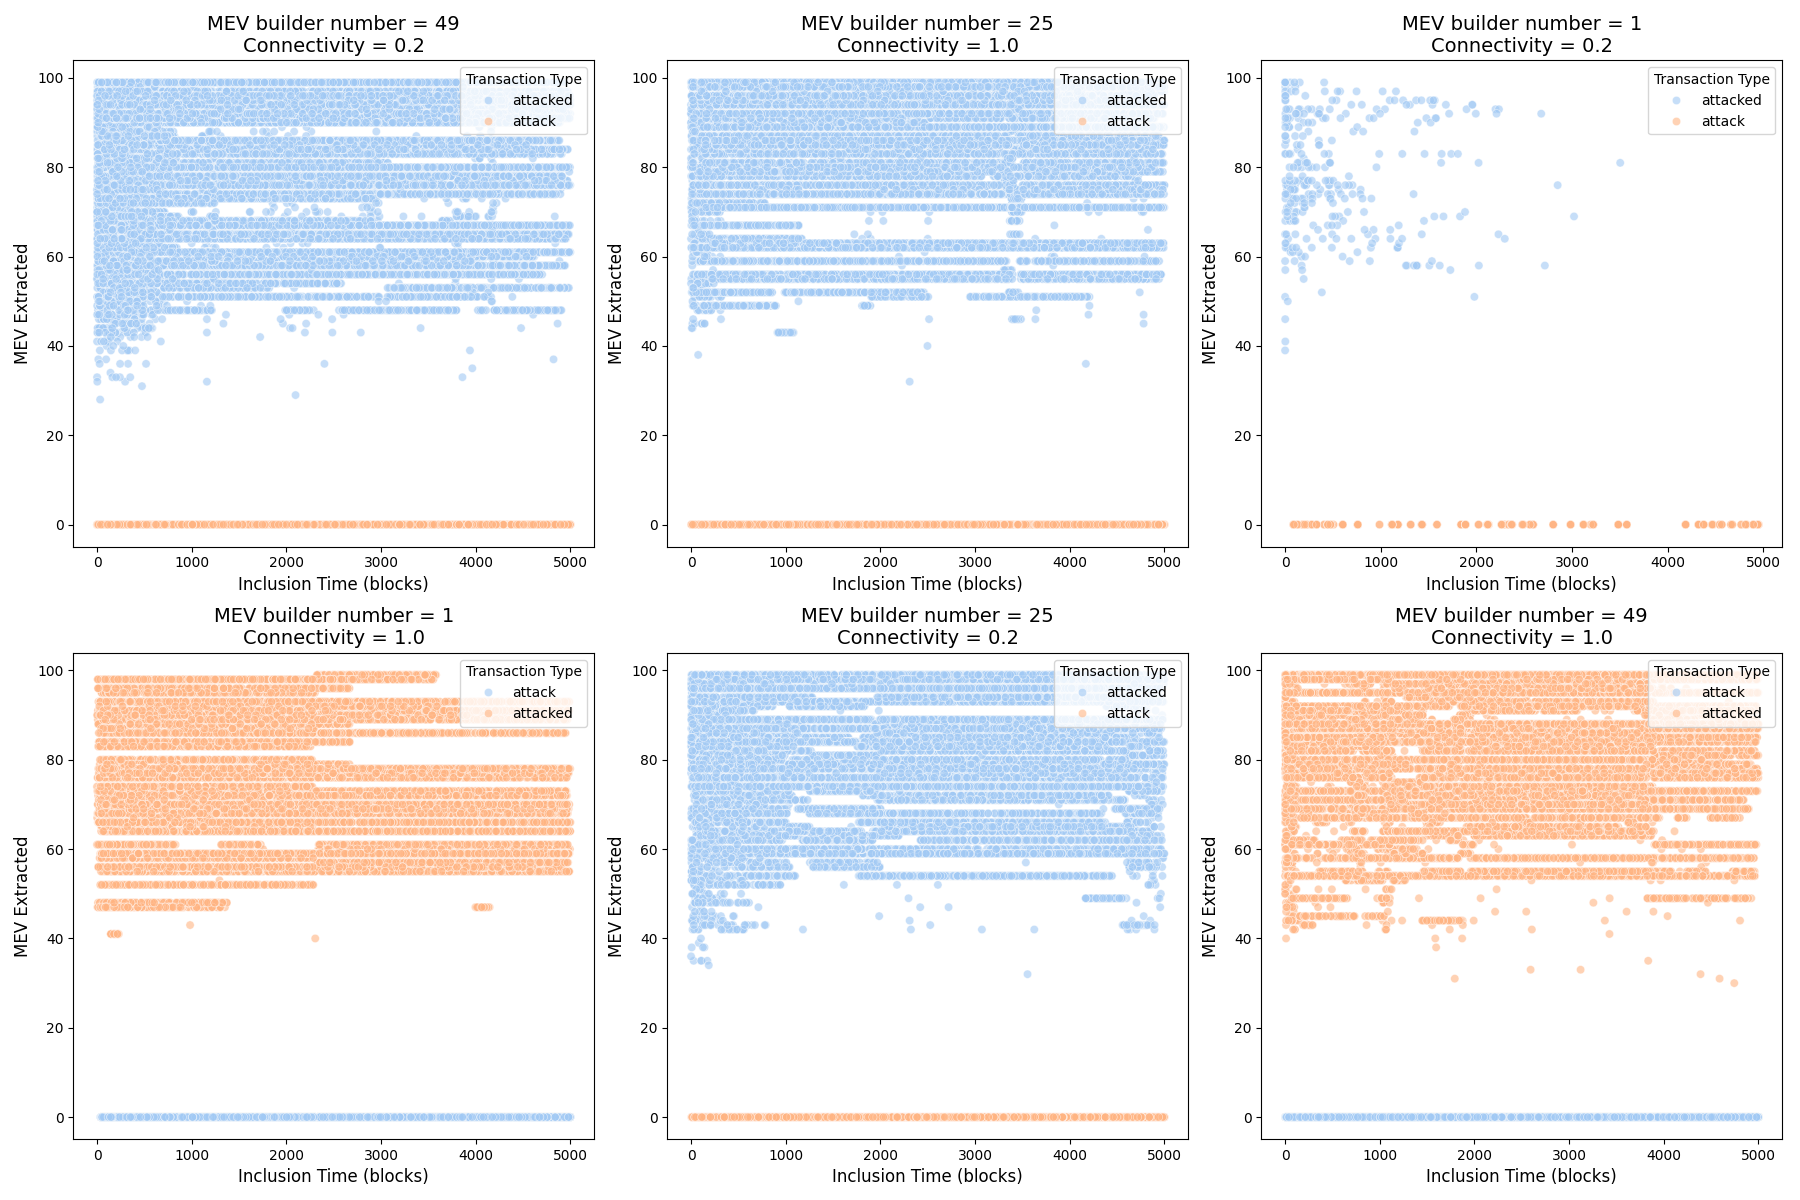
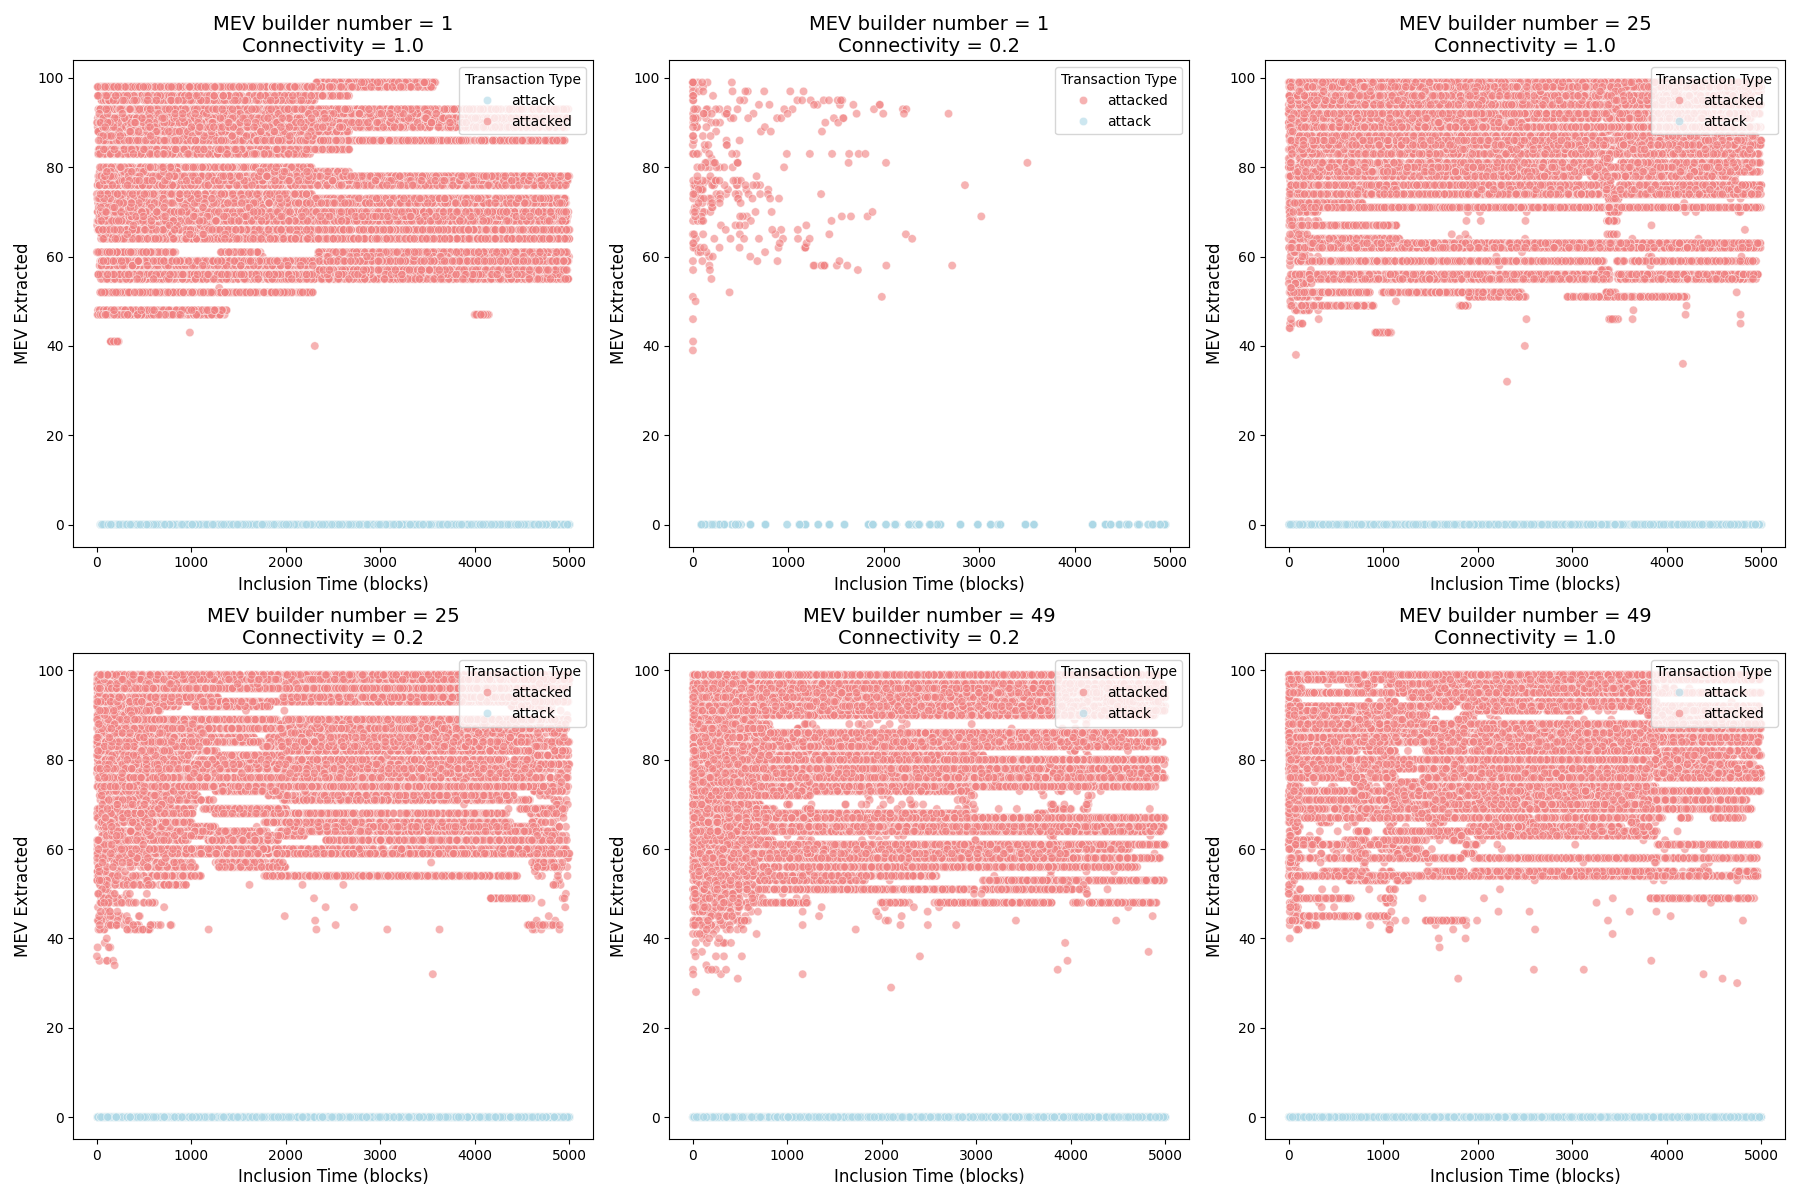
plot

diff --git a/plots/tx_plot.py b/plots/tx_plot.py
@@ -77,7 +77,7 @@ def plot_violin(data_dict, save_dir):
     for idx, (file_label, data) in enumerate(data_dict.items(), 1):
         data['mev_exploited'] = data['transaction_type'].isin(['attack', 'attacked'])
         plt.subplot(2, 3, idx)
-        sns.violinplot(data=data, x='transaction_type', y='inclusion_time', hue='mev_exploited', split=True, inner="quart", palette='pastel')
+        sns.violinplot(data=data, x='transaction_type', y='inclusion_time', hue='mev_exploited', split=True, inner="quart", palette={False: 'lightblue', True: 'lightcoral'})
         mev_builders = data['mev_builders'].iloc[0]
         connectivity = data['connectivity'].iloc[0]
         plt.title(f'MEV builder number = {mev_builders}\nConnectivity = {connectivity}', fontsize=14)
@@ -96,7 +96,7 @@ def plot_scatter_mev(data_dict, save_dir, sample_fraction=0.1):
     for idx, (file_label, data) in enumerate(data_dict.items()):
         data_sample = data.sample(frac=sample_fraction, random_state=1)
         data_sample = data_sample[data_sample['transaction_type'].isin(['attack', 'attacked'])]
-        sns.scatterplot(data=data_sample, x='inclusion_time', y='mev', hue='transaction_type', palette='pastel', alpha=0.6, ax=axes[idx])
+        sns.scatterplot(data=data_sample, x='inclusion_time', y='mev', hue='transaction_type', palette={'attack': 'lightblue', 'attacked': 'lightcoral'}, alpha=0.6, ax=axes[idx])
         mev_builders = data_sample['mev_builders'].iloc[0]
         connectivity = data_sample['connectivity'].iloc[0]
         axes[idx].set_title(f'MEV builder number = {mev_builders}\nConnectivity = {connectivity}', fontsize=14)
@@ -115,7 +115,7 @@ def plot_scatter_gas(data_dict, save_dir, sample_fraction=0.1):
     for idx, (file_label, data) in enumerate(data_dict.items()):
         data_sample = data.sample(frac=sample_fraction, random_state=1)
         data_sample = data_sample[data_sample['transaction_type'].isin(['attack', 'attacked'])]
-        sns.scatterplot(data=data_sample, x='inclusion_time', y='gas', hue='transaction_type', palette='pastel', alpha=0.6, ax=axes[idx])
+        sns.scatterplot(data=data_sample, x='inclusion_time', y='gas', hue='transaction_type', palette={'attack': 'lightblue', 'attacked': 'lightcoral'}, alpha=0.6, ax=axes[idx])
         mev_builders = data_sample['mev_builders'].iloc[0]
         connectivity = data_sample['connectivity'].iloc[0]
         axes[idx].set_title(f'MEV builder number = {mev_builders}\nConnectivity = {connectivity}', fontsize=14)
@@ -144,6 +144,7 @@ def main():
         "mev_builders=49characteristic=1.csv"
     ]
 
+    # Sort the representative files based on MEV builders and connectivity
     representative_files.sort(key=lambda x: (int(x.split('=')[1].split('characteristic')[0]), float(x.split('=')[2].replace('.csv', ''))))
 
     file_paths = [os.path.join(folder_path, rep_file) for rep_file in representative_files]
